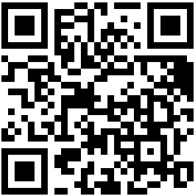
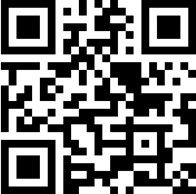
Fixed #83 Update qr code on the main page (#95)

diff --git a/apps/client/src/router/App.tsx b/apps/client/src/router/App.tsx
@@ -1,4 +1,4 @@
-import {Route, Routes } from 'react-router-dom';
+import {Navigate, Route, Routes } from 'react-router-dom';
 import Login from "../pages/Login";
 import { ToastContainer } from 'react-toastify';
 import Places from '../pages/Places/Places';
@@ -29,6 +29,7 @@ function App(){
                 <Route path="/menu/:id/:tableNumber" element={<Menu />} />
                 <Route path="/password/forgot" element={<ForgotPassword />} />
                 <Route path="/password/reset/:token" element={<ResetPassword />} />
+                <Route path="*" element={<IndexPage />} />
             </Routes>
             <ToastContainer />
         </AuthProvider>
